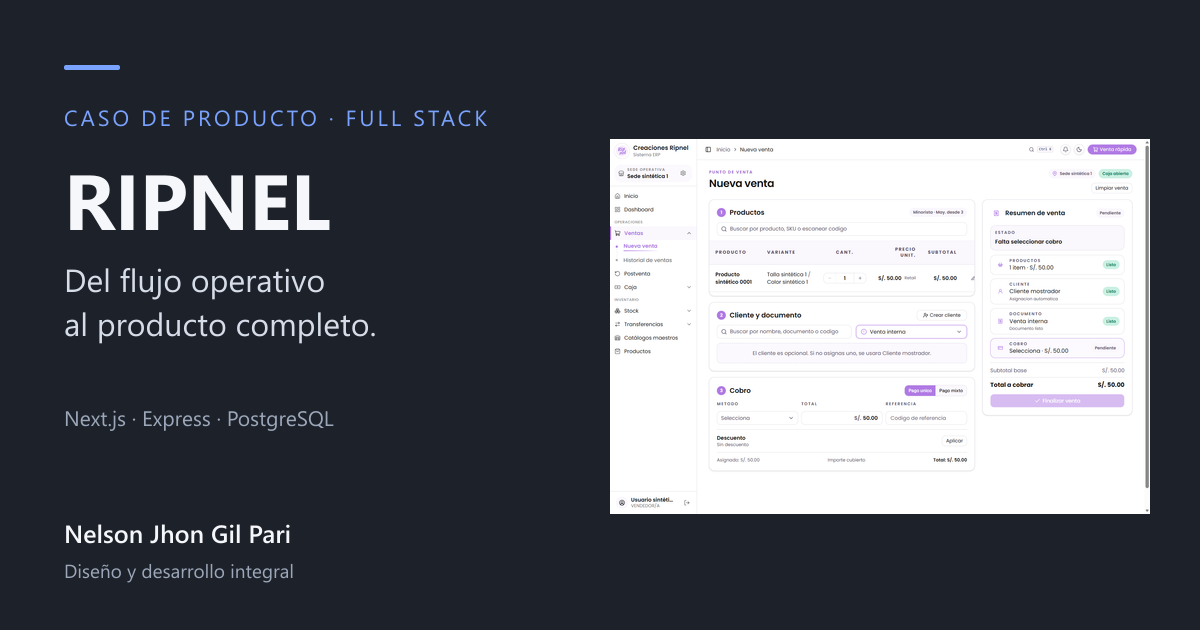
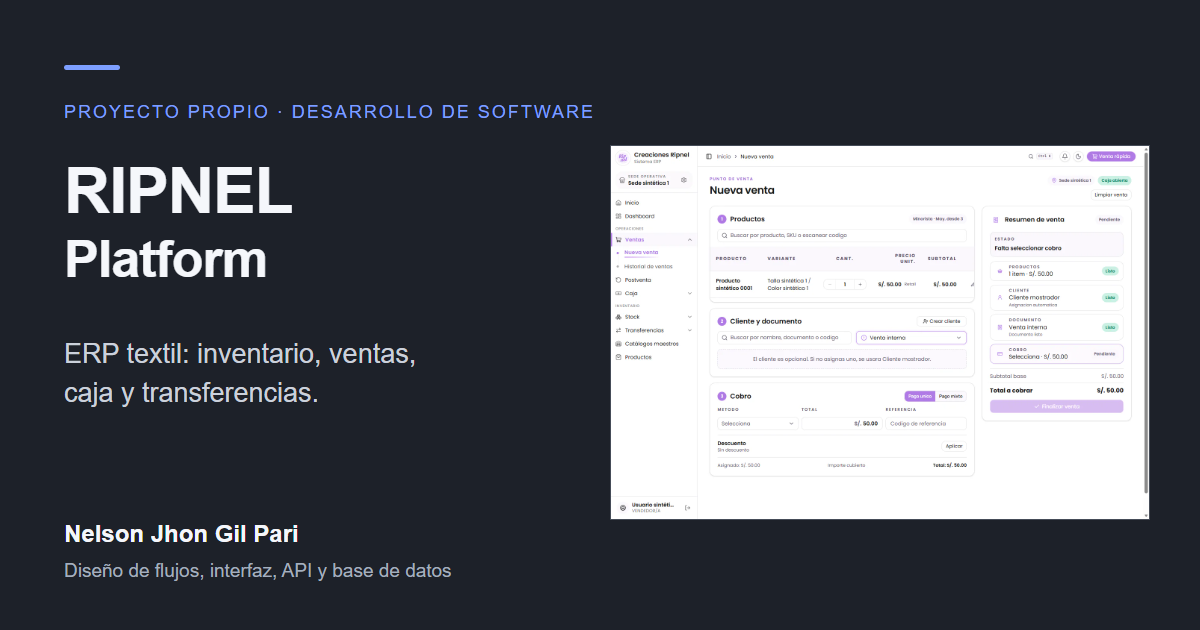
fix: presenta RIPNEL con narrativa técnica y recorridos por tarea

diff --git a/src/pages/proyectos/ripnel.css b/src/pages/proyectos/ripnel.css
@@ -1,16 +1,19 @@
 .case-container { width:min(1120px,calc(100% - 2rem)); margin-inline:auto; }
-.case-hero { padding-top:7rem; }
+.case-hero { padding-top:5.5rem; }
 .case-back { color:var(--text-body); font-size:.95rem; display:inline-flex; min-height:44px; align-items:center; }
 .case-eyebrow { color:var(--accent); text-transform:uppercase; letter-spacing:.12em; font-size:.8rem; font-weight:700; margin:2rem 0 1rem; }
-.case-hero h1 { font-size:clamp(2.3rem,5vw,3.5rem); line-height:1.08; letter-spacing:-.025em; margin:0 0 1.5rem; }
-.case-hero h1 span { display:block; font-weight:600; color:var(--text-body); margin-top:.5rem; }
+.case-hero > .case-eyebrow { margin-top:1.2rem; }
+.case-hero h1 { font-size:clamp(2.3rem,4vw,3rem); line-height:1.08; letter-spacing:-.025em; margin:0 0 1.5rem; }
 .case-lead { max-width:68ch; font-size:clamp(1.1rem,2vw,1.3rem); color:var(--text-body); line-height:1.6; }
-.case-facts { display:grid; grid-template-columns:repeat(3,1fr); gap:1.5rem; padding:1.5rem 0; margin:2rem 0 0; border-block:1px solid var(--line); }
+.case-facts { display:grid; grid-template-columns:repeat(3,minmax(0,1fr)); gap:1.5rem; padding:1rem 0; margin:1.5rem 0 0; border-block:1px solid var(--line); }
 .case-facts dt { color:var(--text-muted); font-size:.85rem; }
 .case-facts dd { margin:.4rem 0 0; font-weight:600; }
 .case-actions { display:flex; flex-wrap:wrap; align-items:center; gap:1.5rem; margin:1.75rem 0 2.5rem; }
 .case-actions a { min-height:44px; display:inline-flex; align-items:center; color:var(--accent-strong); font-weight:600; }
 .case-actions .case-button { background:var(--accent); color:var(--bg); padding:.7rem 1.1rem; border-radius:6px; }
+.case-hero .case-actions { margin:1.25rem 0; }
+#venta-en-mostrador { scroll-margin-top:5rem; }
+#venta-en-mostrador .case-screen { margin-top:1.5rem; }
 .case-screen { margin:2rem 0; min-width:0; }
 .case-screen > a { display:block; position:relative; border:1px solid var(--line-strong); border-radius:10px; overflow:hidden; background:var(--surface); }
 .case-screen img { width:100%; height:auto; }
@@ -38,7 +41,16 @@
 .case-grid p { font-size:1rem; margin:0; }
 .case-section .case-secondary { font-size:.9rem; color:var(--text-muted); }
 .case-mobile-layout { display:grid; grid-template-columns:1fr minmax(0,300px); gap:2rem; align-items:center; margin-top:2rem; }
-.case-screen-mobile { max-width:390px; margin-inline:auto; }
+.case-screen-mobile { width:100%; max-width:390px; margin-inline:auto; }
+.case-journey,.case-provenance { border:1px solid var(--line); border-radius:8px; margin-top:1rem; }
+.case-journey > summary,.case-provenance > summary { padding:1rem; min-height:44px; cursor:pointer; color:var(--ink); }
+.case-journey > summary > span { display:inline-grid; gap:.35rem; width:calc(100% - 1.5rem); vertical-align:middle; }
+.case-journey summary strong { font-size:1.12rem; }
+.case-journey summary span span { color:var(--text-body); font-size:1rem; line-height:1.5; }
+.case-journey[open] > summary,.case-provenance[open] > summary { border-bottom:1px solid var(--line); }
+.case-journey-body,.case-provenance > div { padding:0 1.1rem 1rem; }
+.case-journey-body > .case-screen:last-child { margin-bottom:0; }
+.case-inline-link { display:inline-flex; align-items:center; min-height:44px; color:var(--accent-strong); text-decoration:underline; text-underline-offset:3px; }
 .case-architecture { background:var(--surface); border:1px solid var(--line); border-radius:10px; padding:1.5rem; margin:2rem 0; }
 .architecture-row { display:flex; align-items:center; gap:.65rem; }
 .architecture-row > div { flex:1; min-width:0; padding:1rem .7rem; background:var(--surface-soft); border:1px solid var(--line); border-radius:6px; text-align:center; }
@@ -69,10 +81,3 @@
 .lightbox-toolbar:last-child { margin-top:.75rem; }
 @media(max-width:900px) { .case-body { grid-template-columns:1fr; gap:0; } .case-toc { position:static; padding-top:0; } .case-toc details { padding:1rem; border:1px solid var(--line); border-radius:6px; } .case-toc nav { grid-template-columns:repeat(3,1fr); } }
 @media(max-width:600px) { .case-hero { padding-top:5.5rem; } .case-facts { grid-template-columns:1fr; gap:1rem; } .case-grid { grid-template-columns:1fr; } .case-mobile-layout { grid-template-columns:1fr; gap:0; } .case-toc nav { grid-template-columns:repeat(2,1fr); } .case-section { padding-block:1rem 2rem; } .case-architecture { padding:1rem; } .architecture-row { flex-direction:column; } .architecture-row > div { width:100%; } .architecture-row > span { transform:rotate(90deg); } .lightbox-toolbar { flex-wrap:wrap; } .lightbox-toolbar h2 { flex:1; } .lightbox-toolbar:last-child { justify-content:center; } .case-lightbox { padding:.6rem; } }
-.case-hero { padding-top:5.5rem; }
-.case-hero > .case-eyebrow { margin-top:1.2rem; }
-.case-hero h1 { font-size:clamp(2.3rem,4vw,3rem); }
-.case-hero h1 span { font-size:clamp(1.9rem,3.5vw,2.6rem); }
-.case-facts { margin-top:1.5rem; padding-block:1rem; }
-.case-hero .case-actions { margin:1.25rem 0; }
-.case-hero > .case-screen { margin-top:1.5rem; }

diff --git a/README.md b/README.md
@@ -19,7 +19,9 @@ npm run build
 Automático vía GitHub Actions al pushear a `main`.
 ## Caso RIPNEL
 
-La página `/portafolio/proyectos/ripnel/` presenta RIPNEL como producto full stack.
+La página `/portafolio/proyectos/ripnel/` presenta RIPNEL como proyecto propio de
+desarrollo de software: problema, aporte personal, recorridos, arquitectura,
+decisiones y verificación. No es una landing comercial ni ofrece acceso al ERP.
 Los datos compartidos con la portada viven en `src/content/ripnel.ts`. Las capturas
 originales están en `src/assets/projects/ripnel/`; Astro genera WebP responsivos al compilar.
 Ver procedencia y límites en [la nota de assets](src/assets/projects/ripnel/README.md).
@@ -42,9 +44,13 @@ sobre `main`; integrar un PR sí publicará, por lo que requiere revisión previ
 
 La galería es manual, con puntos y deslizamiento móvil. Las tarjetas usan un marco
 16:10 con recorte superior; el caso dedicado conserva las imágenes completas.
+Sus recorridos se agrupan en desplegables nativos (venta, existencias y sesión),
+con el primero abierto inicialmente. También funcionan sin JavaScript.
 El contenido y los enlaces de las capturas funcionan sin JS;
 con JS se habilitan tema, menú móvil y ampliación en dialog. No hay acceso de DEMO
-público ni se exponen credenciales del ERP.
+público ni se exponen credenciales del ERP. La web de la marca, ripnel.com, es
+independiente. Una futura DEMO mínima queda por definir y no se confunde con el
+entorno temporal de capacitación existente.
 ## Pendiente técnico previo a publicación
 
 La instalación reproducible del lockfile existente (`npm ci`, 22/10/2026) informó

diff --git a/src/assets/projects/ripnel/README.md b/src/assets/projects/ripnel/README.md
@@ -12,6 +12,10 @@
   venta, catálogo, existencias, solicitud de transferencia, caja e inicio (desktop/móvil).
 
 La vista social `public/og/ripnel-og.png` es una composición editorial de código
-con la captura de POS y texto. No se generó ni alteró la UI con IA.
+con la captura de POS y el título «RIPNEL Platform», identificado como proyecto
+propio de desarrollo de software. No se generó ni alteró la UI con IA.
+El caso conserva las siete imágenes completas y su ampliación. Catálogo y caja,
+inventario y solicitud de transferencia, e inicio desktop/móvil se agrupan en
+recorridos desplegables; el punto de venta permanece visible en la cabecera.
 Estas imágenes acreditan vistas del sistema, no adopción, facturación ni una
 certificación de todos sus flujos. Revisar la vigencia del contenido antes de publicar.
